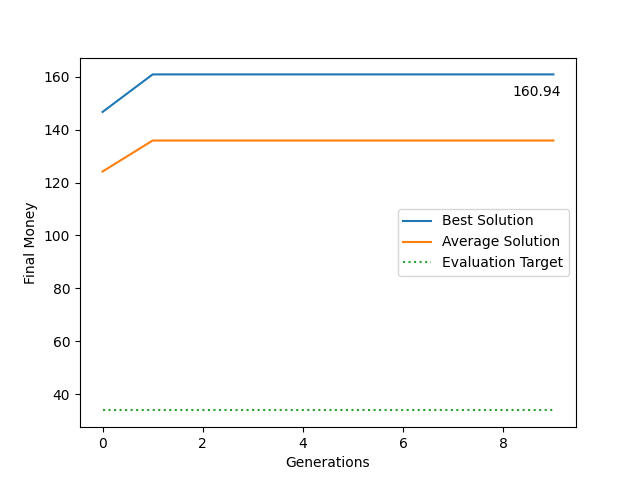
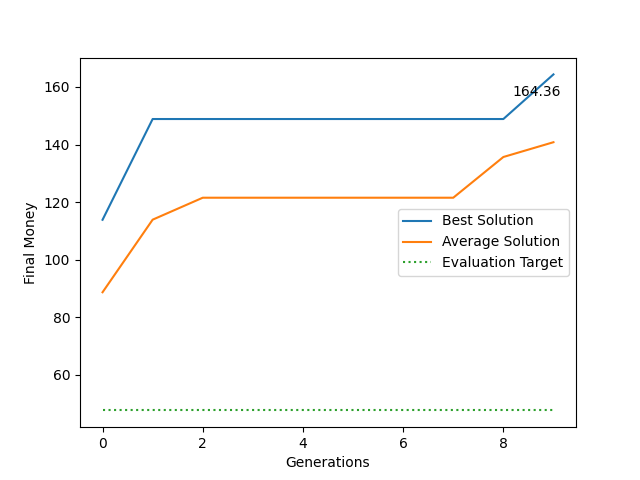
ran with bitcoin

diff --git a/results.py b/results.py
@@ -77,7 +77,7 @@ def getMeans(res, param, function, func_name):
         table.append([key, function(h[key])])
     print(tabulate.tabulate(table))
     
-'''
+
 counter = 1
 finals = {}
 for b in buyLimits:
@@ -88,4 +88,3 @@ for b in buyLimits:
             print(str(counter) + " out of " + str(len(buyLimits) * len(recombinationValues) * len(mutationValues)))
             finals[HypertoString((b, popSize, r, m, gen))] = res
             counter+=1
-'''

diff --git a/bot.py b/bot.py
@@ -335,7 +335,7 @@ def trade(parameters, buyLimit = 720,verbose=False):
 
 # Only forward test if data is split
 if split_ratio != 1:
-    df = df_test # Reassign df to test dataframe
+    df = pd.DataFrame(bitcoin_data, columns=['timestamp', 'open', 'high', 'low', 'close', 'volume']) # Reassign df to test dataframe
 
 # Test against etherium data
 else:
